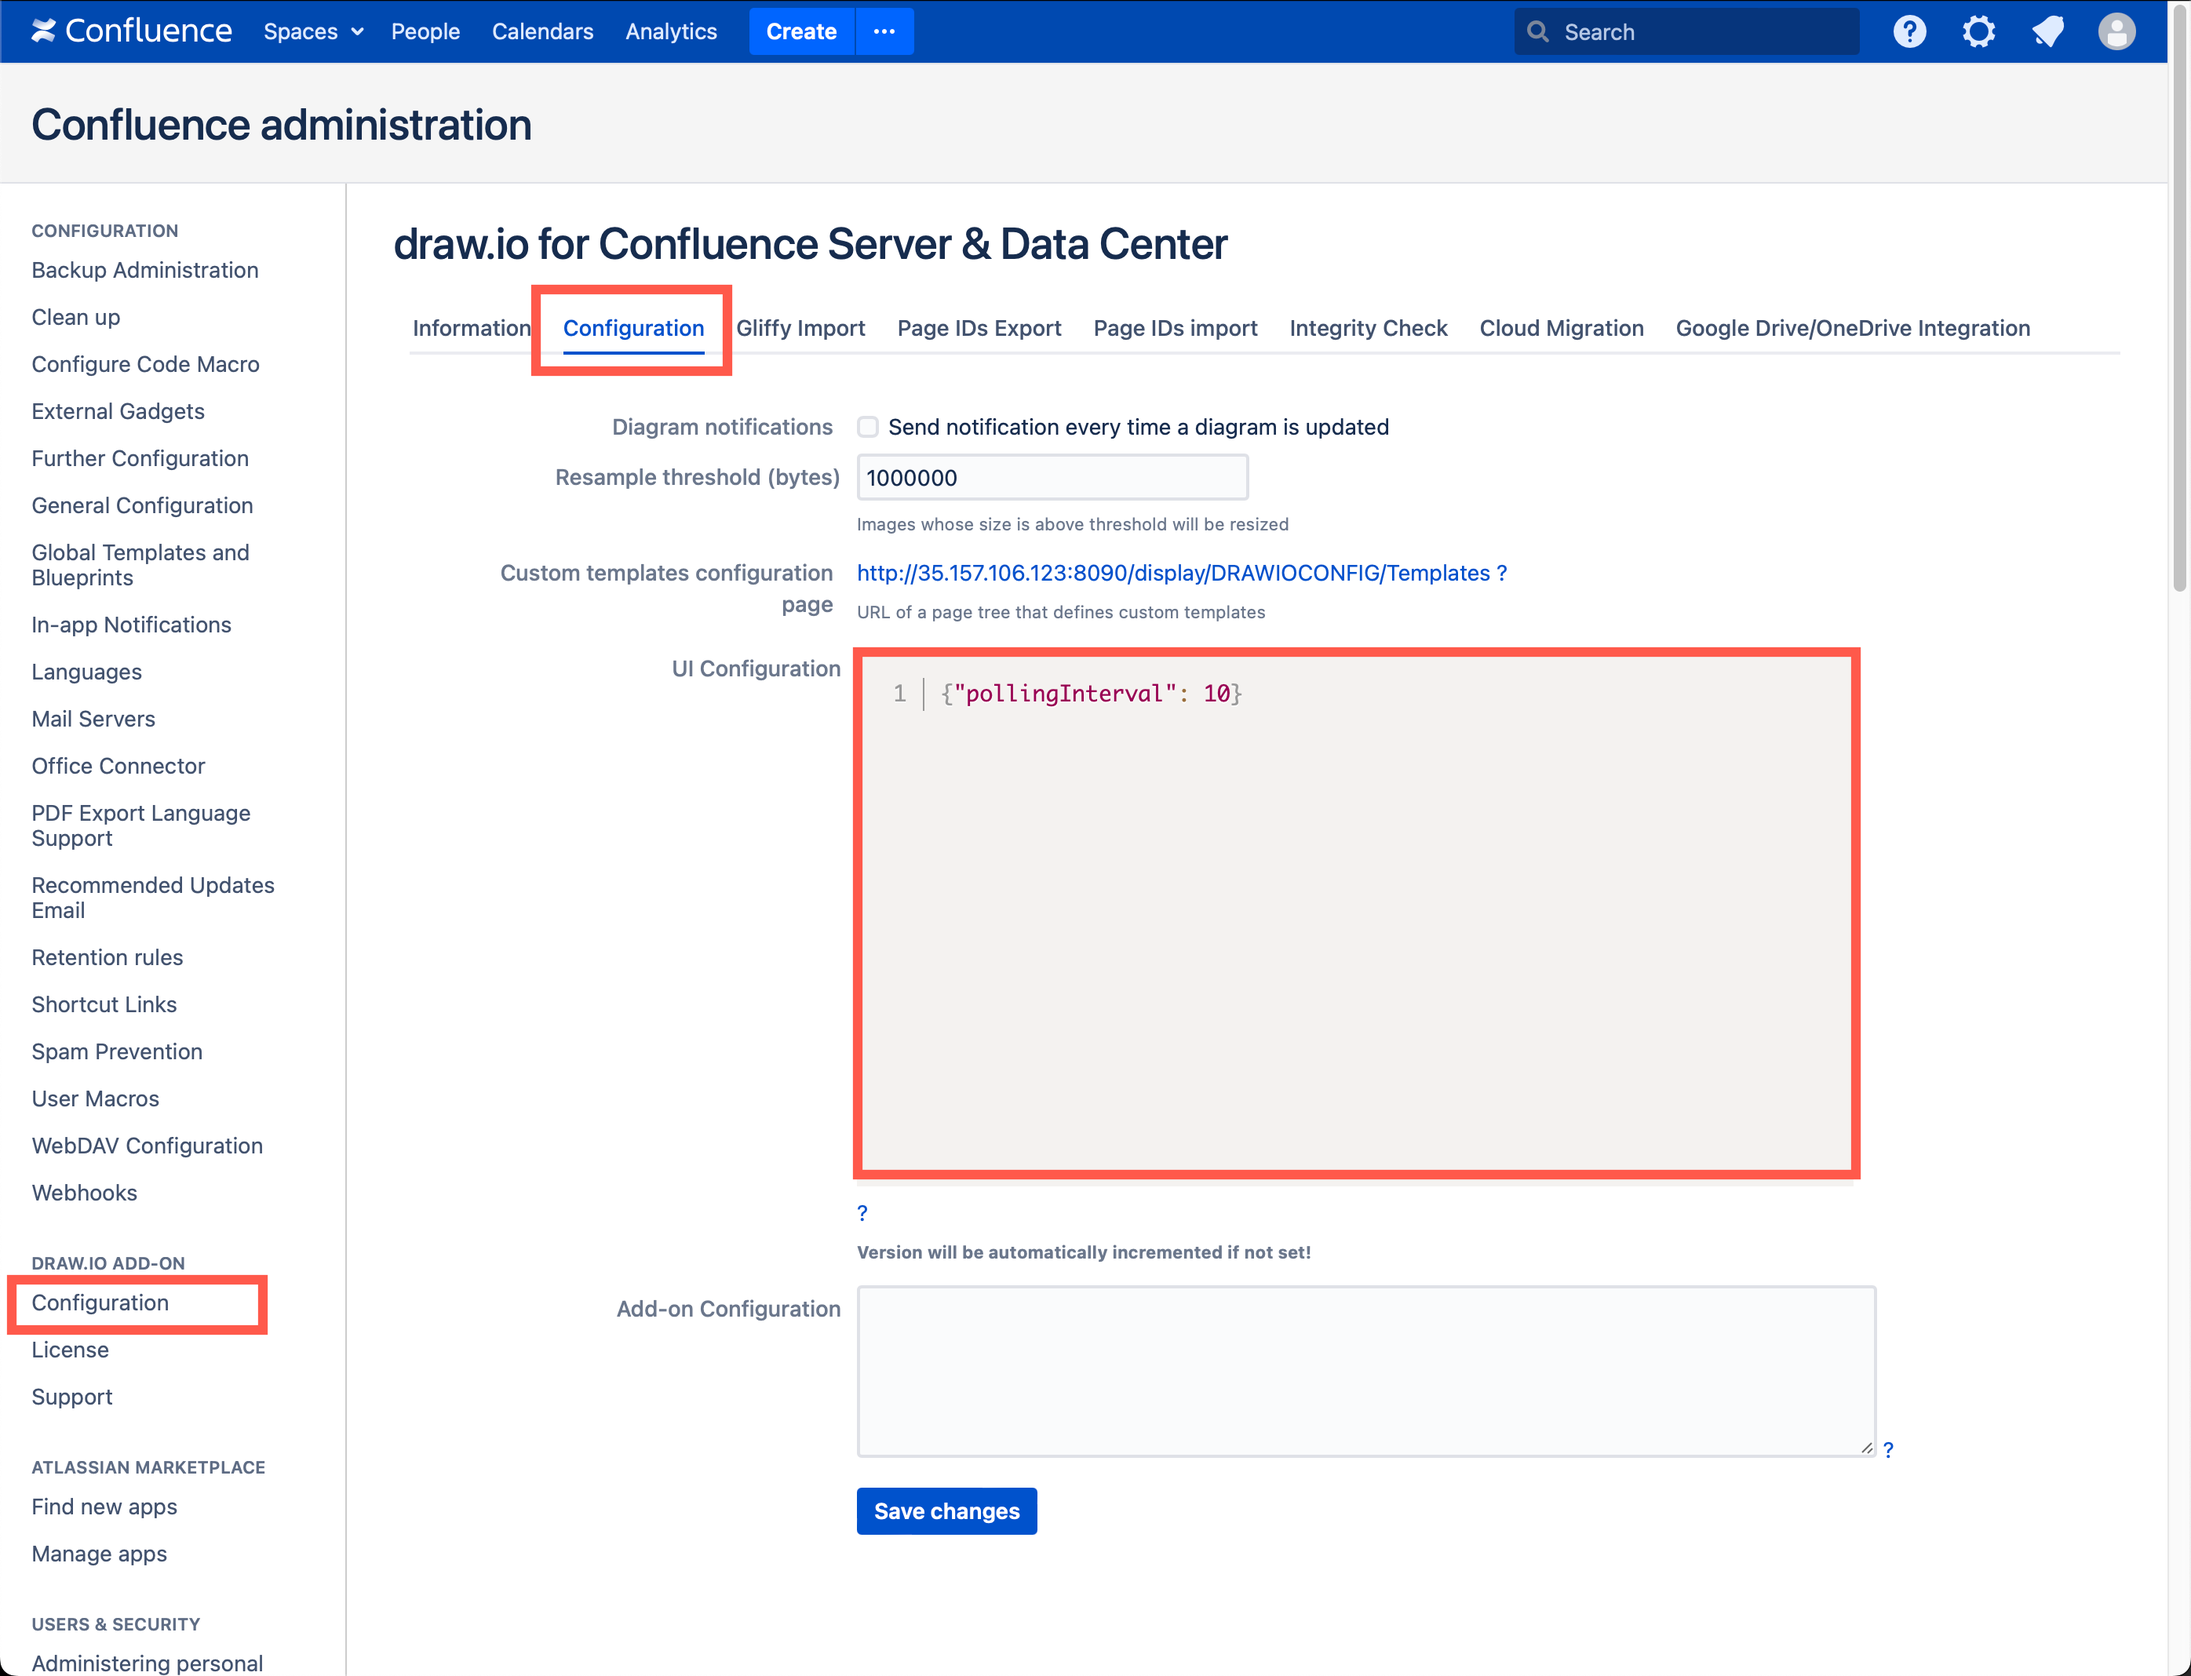
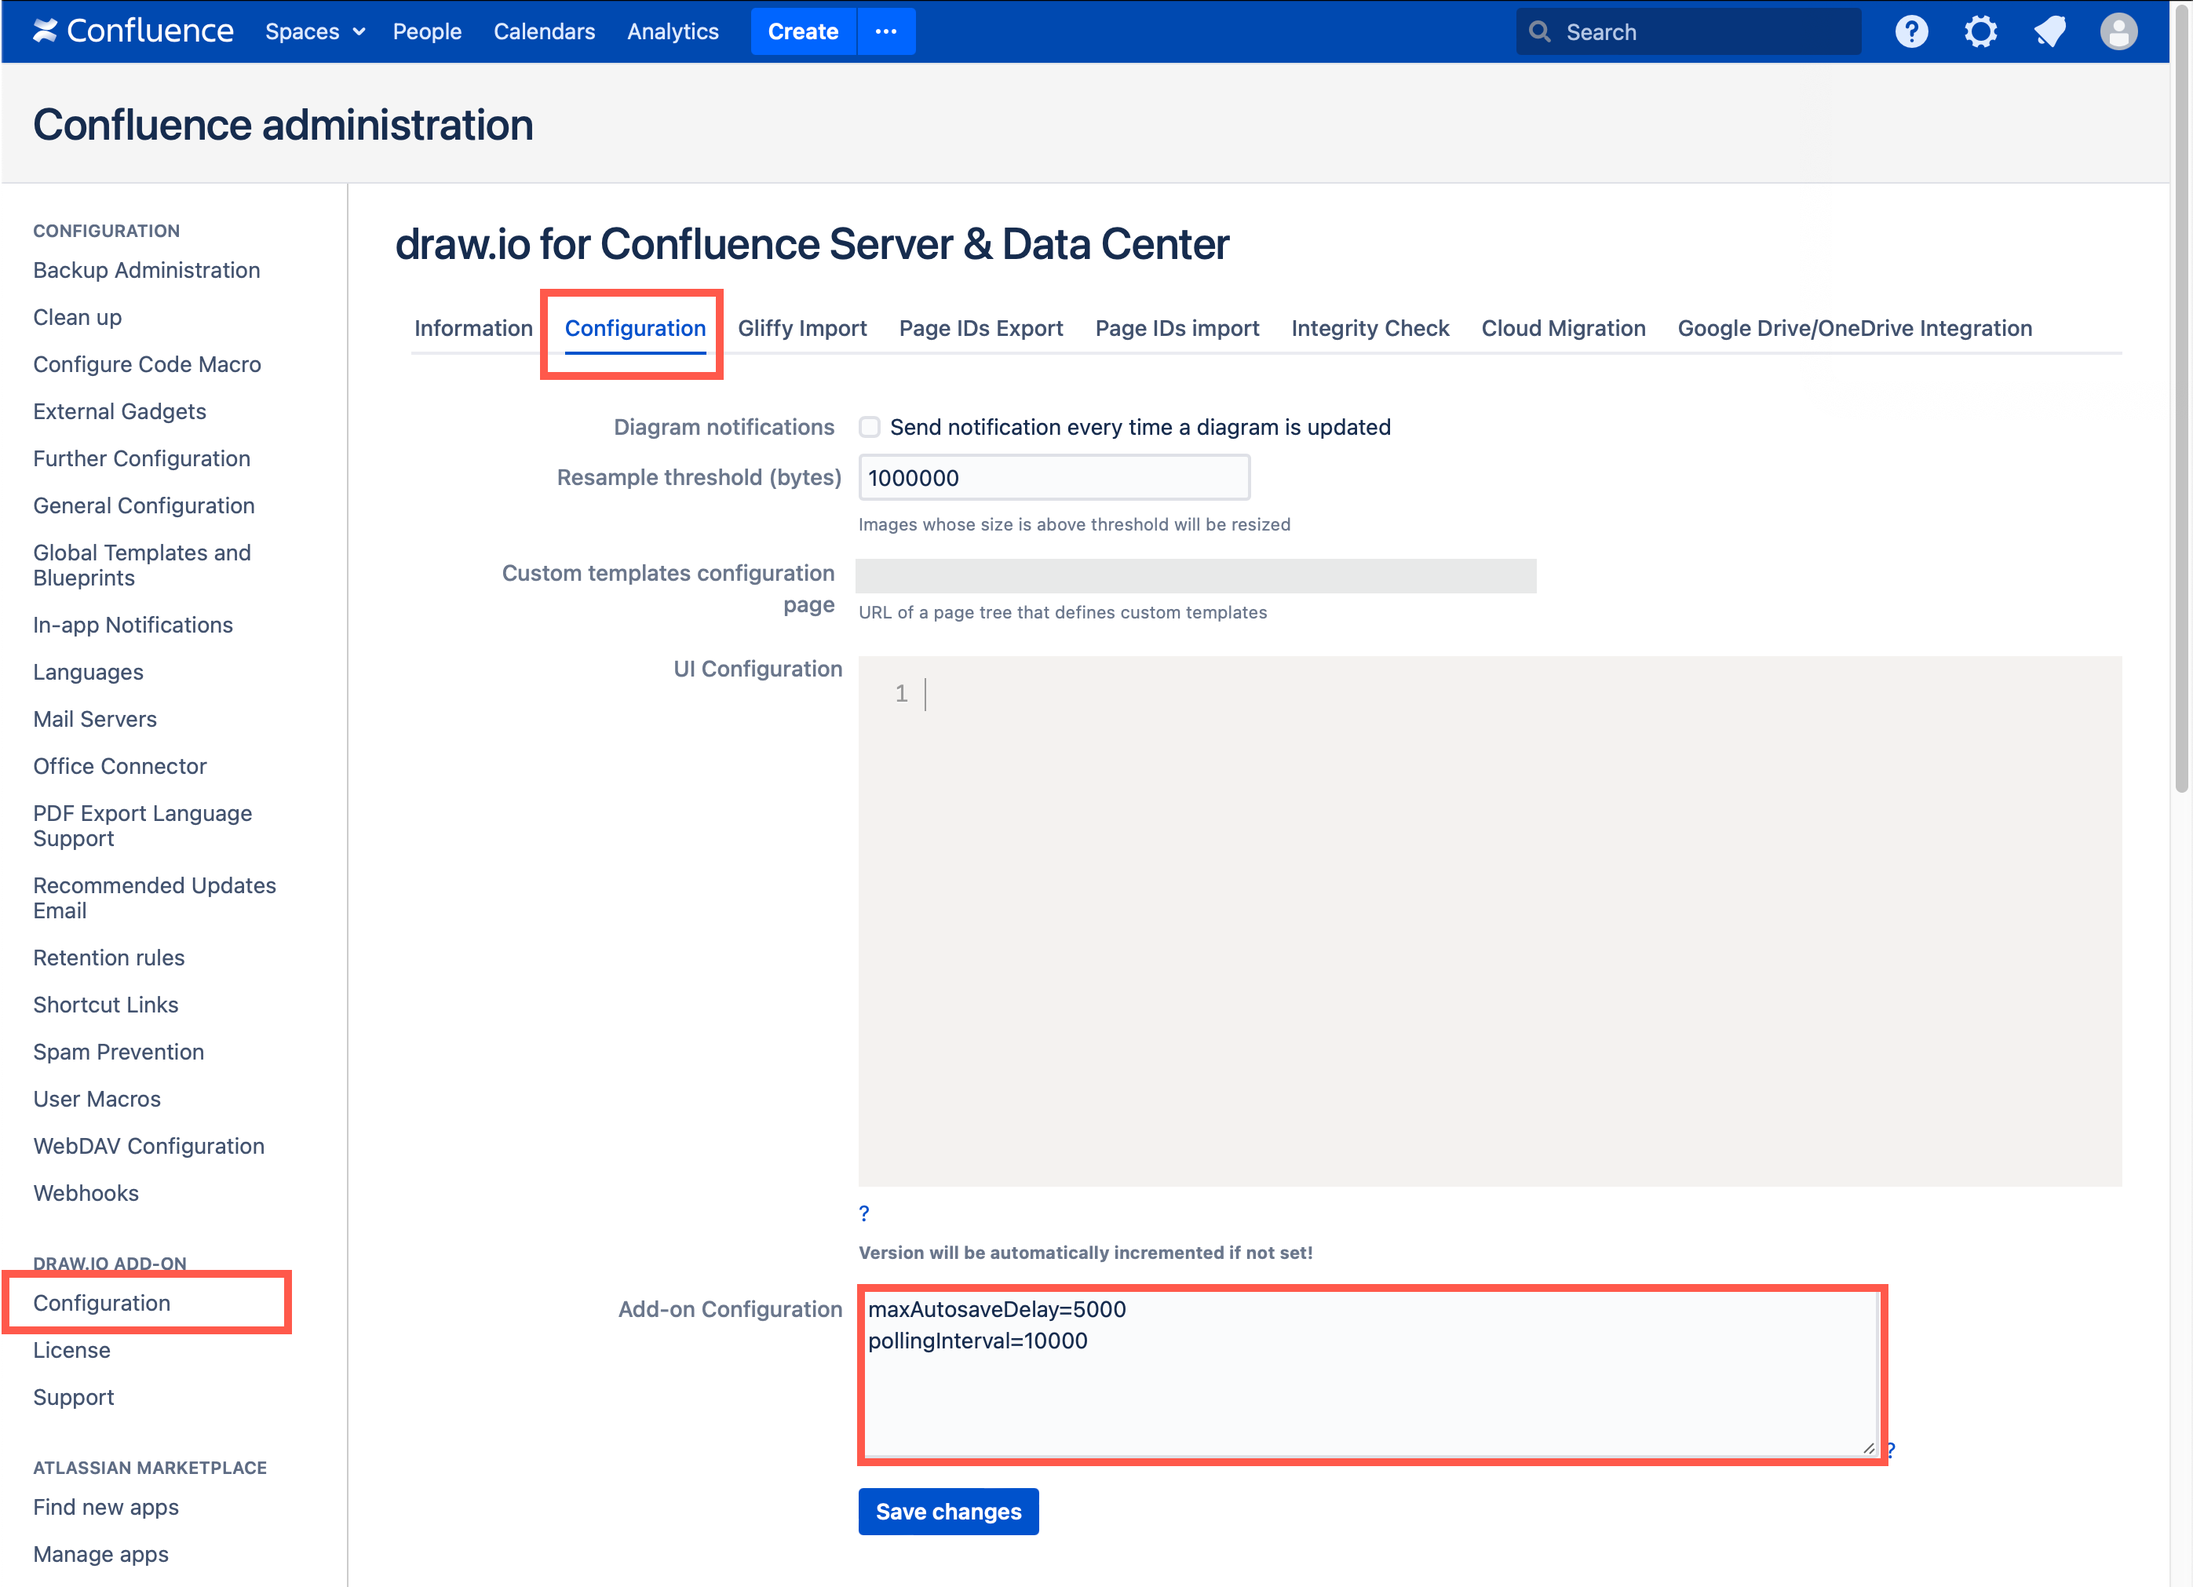
edits

diff --git a/_posts/2024-04-23-collaborative-editing-confluence-dc.md b/_posts/2024-04-23-collaborative-editing-confluence-dc.md
@@ -42,18 +42,20 @@ This is the same process followed by the [collaborative editing function in draw
 
 Because draw.io [merges all the changes made to a diagram](/blog/gliffy-vs-drawio.html), and does not overwrite the attachment with the most recent saved state from one user, you won't lose any data when you are editing a diagram as a team. 
 
-## Increase the synchronisation speed
+## Change the synchronisation speed and auto-save interval
 
-If your Confluence DC users find that changes appear in diagrams they are editing together too slowly, an administrator can increase the polling speed in the draw.io app configuration, by specifying the number of seconds between each poll. 
+If your Confluence DC users find that changes appear in diagrams they are editing together too slowly, an administrator can increase the polling speed in the draw.io app configuration, by specifying the number of seconds between each poll in the _Add-on Configuration_ field. 
+
+Also, you can shorten the time between auto-saving the diagram. A shorter interval will mean more attachment versions of diagrams will be created and added to a Confluence page.
 
 1. Go to the administration area of your Confluence DC instance. 
 2. Go to the _Configuration_ tab in the _draw.io Add-on Configuration_ section. 
-3. Add the following line to the _UI Configuration_: ``"pollingInterval": 10``
+3. Add the following lines to the _Add-on Configuration_ text field: ``pollingInterval=10000`` and ``maxAutoSaveDelay=5000``
 4. Click _Save changes_ to update the draw.io configuration.
 <br /><img src="/assets/img/blog/confluence-dc-polling-interval.png" style="width=100%;max-width:400px;height:auto;" alt="Set a faster polling interval for collaborative editing in Confluence DC 8.x via the app configuration in your Confluence administration">
 
-In this example, we have set the polling interval to 10 seconds. 
+In the example above, we have set the polling interval to 10 seconds (which is 10,000 milliseconds). 
 
 **Note:** If you collaborate on extremely large and complex diagrams, you may need to set a longer polling interval. 
 
-[See how to configure the draw.io editor](/doc/faq/configure-diagram-editor.html)
+[See how to configure the draw.io editor for Confluence DC](/doc/faq/configure-drawio-confluence-server.html)

diff --git a/doc/faq/configure-drawio-confluence-server.md b/doc/faq/configure-drawio-confluence-server.md
@@ -5,12 +5,14 @@ faq: true
 categories: [Confluence Data Center and Server, Customisation]
 ---
 
-You can configure a number of settings for the draw.io backend in Confluence Server. These settings are entered as a list of ``key=value`` pairs.
+You can configure a number of settings for the draw.io backend in Confluence Server. These settings are entered as a list of ``key=value`` pairs. 
 
 1. As an administrator, click on the gear icon, then select _General configuration_.
 2. Under the _draw.io add-on_ section in the left panel, click on _Configuration_.
 3. Click on the _Configuration_ tab.
-4. Paste your configuration in the _Server Configuration_ field, then click _Save changes_.
+4. Paste your configuration in the **_Add-on Configuration_ field**, then click _Save changes_.
+
+As these particular configuration settings not available in the web version of draw.io, use the second configuration field - the _Add-on Configuration_ for the Confluence-specific settings. 
 
 ## Supported key=value settings
 
@@ -46,6 +48,6 @@ If external images are embedded into the diagrams, that are hosted cross-domain 
 
 The default is ``0`` (external calls enabled).
 
-For example, several of these settings have been added to the _Server Configuration_ field.
+For example, several of these settings have been added to the _Add-on Configuration_ field.
 
 <img src="/assets/img/blog/server-settings-drawio-confluence-server.png" style="max-width:100%;height:auto;" alt="Configure the Server Settings for draw.io in Confluence Server">

diff --git a/_posts/2023-02-24-public-custom-libraries.md b/_posts/2023-02-24-public-custom-libraries.md
@@ -45,6 +45,9 @@ Our [repository on Github](https://github.com/jgraph/drawio-libs) contains a sel
 
 Follow any [link from the ``draw.io-libs`` repository](https://github.com/jgraph/drawio-libs) to open that custom library in the draw.io editor.
 
+**Important:** Make sure you click on _Raw_ in Github to get the link to the custom library file contents, rather than the GitHub wrapper. 
+<br /><img src="/assets/img/blog/custom-libraries-github-raw.png" style="width=100%;max-width:500px;height:auto;" alt="Click on Raw to see the custom library file contents and use this URL to open the library in draw.io">
+
 **DevSecOps**
 
 For modelling security and operations in development pipelines, GitHub users djschleen and aquasecurity have created some custom libraries that work well together: [pipeline shapes](https://github.com/djschleen/devsecops-architecture-tools) with stages, bends and forks in various colours; and vendor and product logos for [software and service components for cloud security](https://github.com/aquasecurity/cloudsec-icons) stages.

diff --git a/doc/faq/tooltip-change-font-size.md b/doc/faq/tooltip-change-font-size.md
@@ -1,0 +1,16 @@
+---
+title: Change the size of text in a tooltip
+layout: page
+faq: true
+categories: [features,shapes]
+---
+
+1. Select the shape you want to add the tooltip to and press ``Alt+Shift+T``.
+2. Change the font size by using a HTML tag: ``<font size="3">Write your tooltip here</font>``
+<br /><img src="/assets/img/blog/tooltip-change-font-size.png" style="width=100%;max-width:300px;height:auto;" alt="Surround your tooltip text with the <font> HTML tags to change the size of the tooltip text"> 
+3. Click _Apply_ to save your tooltip. 
+
+When you hover over the shape, the tooltip will appear after a short delay. 
+
+Here's how three different sizes of tooltips appear. 
+<br /><img src="/assets/img/blog/tooltip-font-sizes.png" style="width=100%;max-width:300px;height:auto;" alt="Surround your tooltip text with the <font> HTML tags to change the size of the tooltip text"> 
